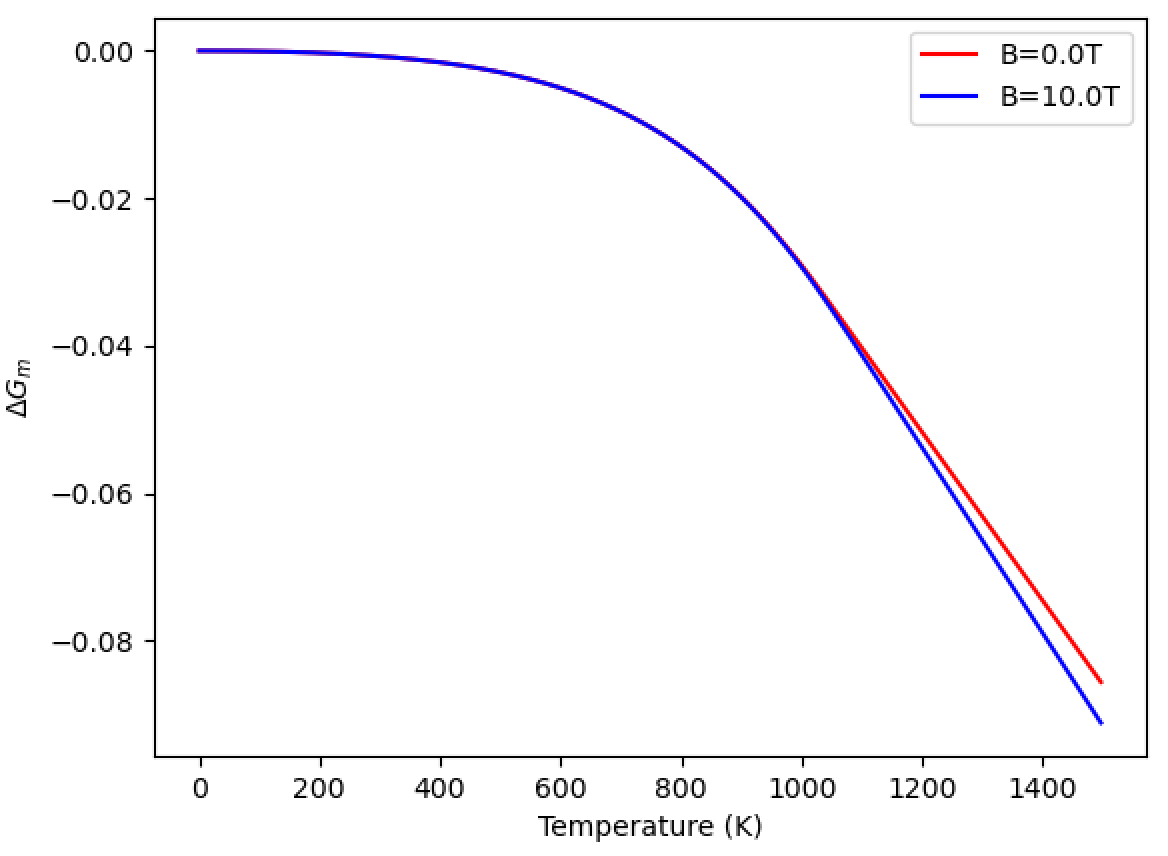
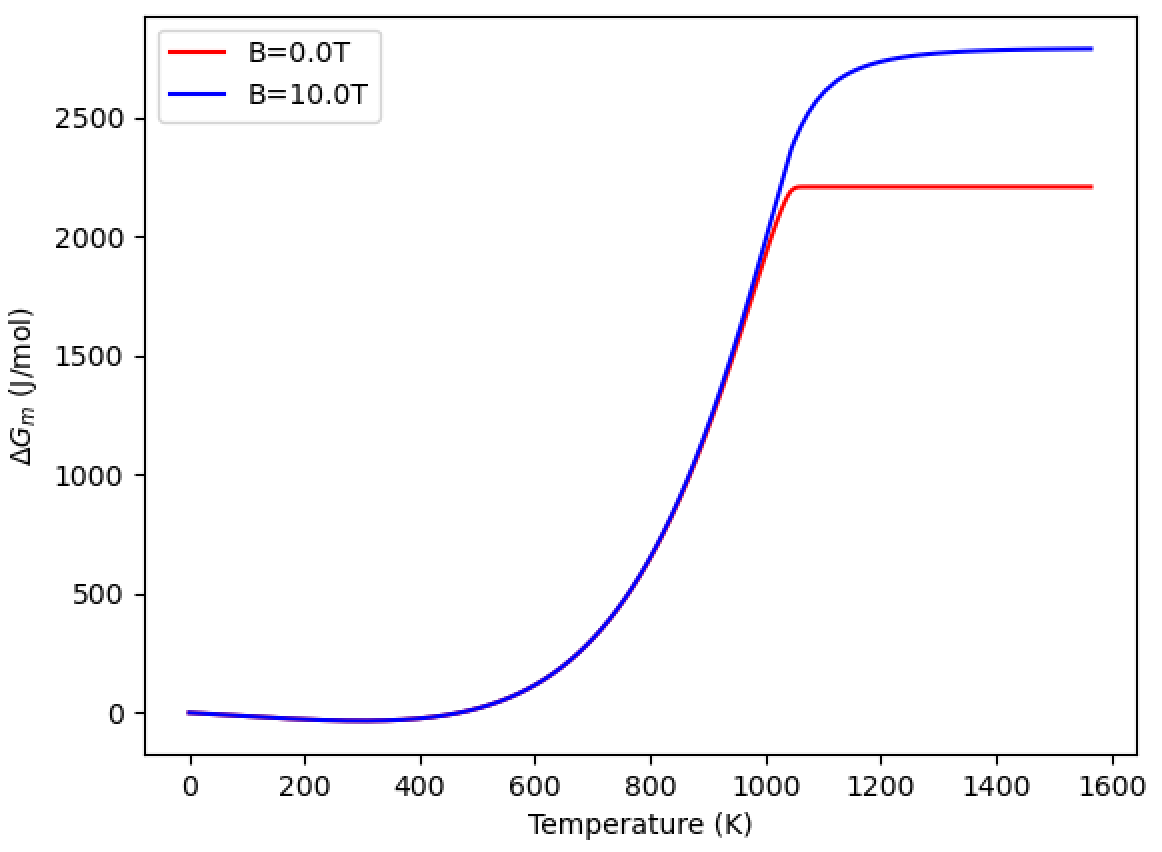
revise dSm

diff --git a/Weiss.py b/Weiss.py
@@ -19,10 +19,11 @@ def main():
         lamb: lambda, molecular field const 
         magfield: magnetic field B (T) 
         struc: crystal structure, now BCC or FCC"""
-    ndiv = 1000
+    ndiv = 30000
+    temp0 = 300.
     magfield = [0.0, 10.0]
     colors = ['red', 'blue']
-    Tc = 1000.
+    Tc = 1043.
     nmag = 1
     struc = 'BCC'
     
@@ -45,19 +46,23 @@ def main():
 
     print("*Calculate the specific heat Cm(T,B)")
     tempc = temp/Tc
-    Cm = np.array([Cmcalc(tempc[i],mf,moment[j,i],struc,p=2.) for j, mf in enumerate(magfield) for i in range(len(tempc))]).reshape(len(magfield),ndiv)
+    if ( struc == 'BCC' ):
+        p = 1.
+    elif( struc == 'FCC' ):
+        p = 2.
+    else:
+        p = 2.
+    Cm = np.array([Cmcalc(tempc[i],mf,moment[j,i],struc,p=p) for j, mf in enumerate(magfield) for i in range(len(tempc))]).reshape(len(magfield),ndiv)
     print(Cm)
     CmdT = np.array([Cm[j,i]/temp[i] for j in range(len(magfield)) for i in range(len(temp))]).reshape(len(magfield),ndiv)
-    #dHm = np.array([integrate.simps(Cm[j,0:i],temp[0:i]) if i<=iTc else integrate.simps(Cm[j,iTc:i],temp[iTc:i])
-    #                for j in range(len(magfield)) for i in range(1,len(temp)-1)]).reshape(len(magfield),ndiv-2)
-    #dSm = np.array([integrate.simps(CmdT[j,0:i],temp[0:i]) if i<=iTc else integrate.simps(CmdT[j,iTc:i],temp[iTc:i])
-    #                for j in range(len(magfield)) for i in range(1,len(temp)-1)]).reshape(len(magfield),ndiv-2)
     dHm = np.array([integrate.simps(Cm[j,0:i],temp[0:i]) for j in range(len(magfield)) for i in range(1,len(temp)-1)]).reshape(len(magfield),ndiv-2)
     dSm = np.array([integrate.simps(CmdT[j,0:i],temp[0:i]) for j in range(len(magfield)) for i in range(1,len(temp)-1)]).reshape(len(magfield),ndiv-2)
 
     if ('-p' in args):
         plt.xlabel("Temperature (K)")
         plt.ylabel("Magnetic moment ($\mu_B$)")
+        plt.xlim(0.,1.5*Tc)
+        plt.ylim(0.,1.1*m0)
         for i in range(len(magfield)):
             plt.plot(temp, moment[i,:], c=colors[i], label="B={0}T".format(magfield[i]))
         plt.savefig("Moment.pdf")
@@ -73,7 +78,7 @@ def main():
         plt.show()
         
         plt.xlabel("Temperature (K)")
-        plt.ylabel("$\Delta H_m$")
+        plt.ylabel("$\Delta H_m$ (J/mol)")
         for i in range(len(magfield)):
             plt.plot(temp[0:ndiv-2], dHm[i,:], c=colors[i], label="B={0}T".format(magfield[i]))
         plt.savefig("dHm.pdf")
@@ -81,25 +86,24 @@ def main():
         plt.show()
         
         plt.xlabel("Temperature (K)")
-        plt.ylabel("$\Delta S_m T$")
-        mixS = np.array([temp[i]*dSm[j,i] for j in range(len(magfield)) for i in range(len(temp)-2)]).reshape(len(magfield),ndiv-2)
+        plt.ylabel("$\Delta S_m$ (J/mol$\cdot$K)")
         for i in range(len(magfield)):
-            plt.plot(temp[0:ndiv-2], mixS[i,:], c=colors[i], label="B={0}T".format(magfield[i]))
+            plt.plot(temp[0:ndiv-2], dSm[i,:], c=colors[i], label="B={0}T".format(magfield[i]))
         plt.savefig("dSm.pdf")
         plt.legend()
         plt.show()
 
         plt.xlabel("Temperature (K)")
-        plt.ylabel("$\Delta G_m$")
+        plt.ylabel("$\Delta G_m$ (J/mol)")
         for i in range(len(magfield)):
-            plt.plot(temp[0:ndiv-2], dHm[i,:]-mixS[i,:], c=colors[i], label="B={0}T".format(magfield[i]))
+            plt.plot(temp[0:ndiv-2], dHm[i,:]-temp0*dSm[i,:], c=colors[i], label="B={0}T".format(magfield[i]))
         plt.savefig("dGm.pdf")
         plt.legend()
         plt.show()
 
 
 def coth(x):
-    if (np.abs(x) < 1e-20):
+    if (np.abs(x) < 1e-30):
         return 0.
     else:
         return 1./np.tanh(x)
@@ -124,16 +128,17 @@ def fs(struc):
 
 def kf(mm, struc):
     cf = 4.*(1.-fs(struc))/(1.-np.exp(-4.))
-    return cf*kB*np.log(mm+1.)
+    return cf*kB*eV2Jmol*np.log(mm+1.)
 
 def kp(mm, struc, p=2.):
-    return 8.*p*fs(struc)*kB*np.log(mm+1.)
+    return 8.*p*fs(struc)*kB*eV2Jmol*np.log(mm+1.)
 
 def Cmcalc(tempc, magfield, mm, struc, p=2.):
+    """ calculate the specific heat """
     if (tempc >= 1.):
-        return eV2Jmol*kp(mm,struc,p=p)*tempc*np.exp(8.*p*(1.-tempc))
+        return kp(mm,struc,p=p)*tempc*np.exp(8.*p*(1.-tempc))
     else:
-        return eV2Jmol*kf(mm,struc)*tempc*np.exp(-4.*(1.-tempc))
+        return kf(mm,struc)*tempc*np.exp(-4.*(1.-tempc))
 
 def Tc2lambda(J, Tc, n, g=2.):
     return 3.*kB*Tc/(J*(J+1.)*n*(g**2)*(mu_B**2))  # T/eV

diff --git a/README.md b/README.md
@@ -4,6 +4,7 @@ Following the description in ["Z. Q. You, J. H. Zhen, T. P. Hou, D. Zhang, W. Zh
 ## Requirements for Python
 - Numpy
 - Matplotlib
+- Scipy
 
 ## Example for BCC Fe
 Before calculation, you should see the contents of Weiss.py.  
@@ -14,7 +15,7 @@ You can calculate the property by the following command.
 python Weiss.py 2.2 -p
 ```
 Here, 2.2 means the magnetic moment of Fe by DFT.
--p activates to plot results.
+-p activates the plot option.
 
 ### Result figures
 - Moment.pdf ... Magnetic moment vs temperature
